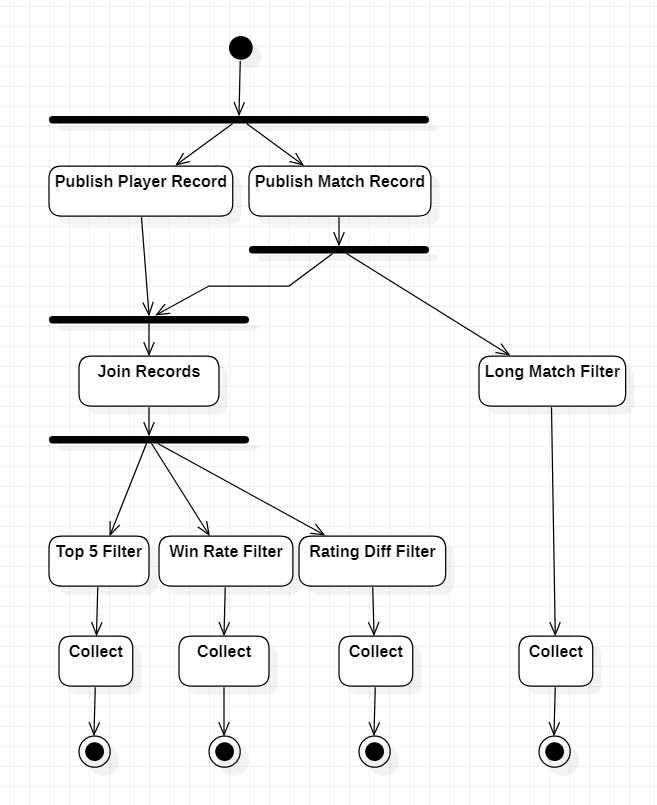
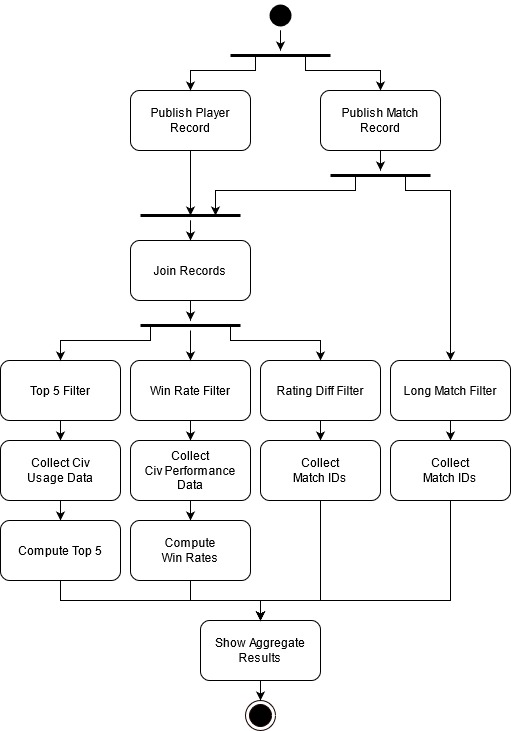
Update documentation with latest changes

diff --git a/code/common/middleware/middleware.go b/code/common/middleware/middleware.go
@@ -64,11 +64,6 @@ func (connector *Connector) Close() error {
 	return nil
 }
 
-func (connector *Connector) Queue(name string) (*amqp.Queue, bool) {
-	q, found := connector.queues[name]
-	return q, found
-}
-
 func (connector *Connector) declareFanOut(name string) error {
 	return connector.channel.ExchangeDeclare(
 		name,     // name

diff --git a/docs/docs.md b/docs/docs.md
@@ -1,5 +1,14 @@
 > **Indicaciones para la ejecución**: antes de ejecutar el sistema hay que copiar los archivos matches.csv y match_players.csv al directorio data; los archivos no fueron subidos al repositorio por su tamaño.
 
+> #### Resumen de cambios para la re-entrega
+>
+> * Se le quitaron al nodo Sink las responsabilidades de cálculo de estadísticas. Dicha responsabilidad se implementó en dos procesos Performance Data Collector y Usage Data Collector para los flujos 3 y 4, respectivamente. El proceso Sink ahora solo recibe estadísticas y las muestra en forma periódica.
+> * A nivel código se refactorizó la lógica de los consumidores en `middleware.go`  mediante un tipo `abstractConsumer` que concentra la responsabilidad de recibir mensajes desde Rabbit. Se utiliza el patrón select-case de Golang para atender tanto a nuevos mensajes como a pedidos de finalización del proceso.
+> * A nivel código se utiliza más el mecanismo defer de Golang para asegurar el cierre adecuado de las conexiones. No para todos los recursos, incluyendo archivos, no obstante, ya que defer no puede ser utilizado si el método Close puede devolver un error.
+> * Se modificó el código del cliente para reducir la repetición y para utilizar el quitChannel que antes no se usaba.
+> * Se eliminó el archivo `process.go` que no era utilizado. Se eliminó también el método `Queue` del tipo `Connector` que no era utilizado y exponía detalles internos sobre la implementación del middleware.
+> * Se modificó la documentación para que sea acorde al nuevo sistema y para reflejar los cambios solicitados.
+
 
 
 # TP2: Middleware y Coordinación de Procesos
@@ -88,17 +97,106 @@ Existen dos fuentes, una de registros de partidas, y otra de registros de jugado
 
 
 
+## Vista de procesos
+
+Las actividades a realizar son esencialmente las que se describen en el diagrama de la figura P.1.
+
+![activity](activity.png)
+
+<center>Figura P.1: Diagrama de actividades que describe las tareas que realiza esencialmente el sistema.</center>
+
+Existe por un lado un proceso que publica registros de partidas, y otro que publica registros de jugadores. Ambos pueden operar en forma independiente y en paralelo. Para aquellos flujos de procesamiento que dependan únicamente de uno de los dos tipos de registros, el procesamiento y la recolección de resultados puede comenzar en forma inmediata, como es el caso para el flujo que identifica partidas largas. Para los demás flujos es necesario ejecutar un proceso de join que, una vez realizado, puede ser seguido de una nueva paralelización. Los conjuntos de datos resultado de cada rama de procesamiento son independientes unos de otros, con lo cual es posible almacenarlos por separado y eventualmente mostrarlos por separado cuando sea solicitado. En el sistema demostrativo, no obstante, existe un paso de agregación que combina los resultados y los muestra todos juntos. En cualquier caso, ya que estos conjuntos de datos son pequeños (e.g. victorias y derrotas por civilización), sería también posible calcular las estadísticas rápidamente a demanda.
+
+
+
+## Vista física
+
+En la figura F.1 se muestra un diagrama de robustez que describe las características del sistema a implementar.
+
+![robustness](robustness.png)
+
+<center>Figura F.1: Diagrama de robustez del sistema a implementar.</center>
+
+
+
+El sistema implementa un procesamiento online y cuenta con los siguientes elementos:
+
+**Match Data Input Server** y **Player Data Input Server**: Los servidores a los que se conecta el cliente y en paralelo provee los datos de las partidas y de los jugadores. Los servidores construyen registros de partidas y jugadores, respectivamente, en base a los datos que reciben, y los publican a través de un exchange correspondiente.
+
+**Match Record FanOut**: Un exchange tipo FanOut que recibe registros de partidas y los hace disponibles a todos sus suscriptores. 
+
+**Player Record FanOut**: Un exchange tipo FanOut que recibe registros de jugadores y los hace disponibles a todos sus suscriptores.
+
+**Long Match LB**: Un balanceador de carga que recibe registros de partidas y los coloca en una cola de la que leen workers que identifican partidas largas acorde al flujo 1. En la implementación se utilizó simplemente una cola compartida por todos los workers.
+
+**Long Match Filter**: El elemento que implementa el filtro del flujo 1. Recibido un registro de partida, el proceso determina si el rating promedio es mayor a 2000, si se jugó en koreacentral, southeastasia o en eastus, y si la partida excedió las dos horas de juego. En tal caso, emite el ID de la partida por una cola de salida.
+
+**Online Join**: Un join online. El proceso almacena los registros que recibe en un cache hasta que cuenta con todos los elementos necesarios para construir un registro completo. Cuando el join construye un registro, lo publica a través de un exchange. Luego de construir un registro, sus componentes son eliminados del cache. En la implementación demostrativa se utilizó un único Join. En una implementación que requiera más capacidad de escalamiento se puede tener múltiples procesos Join, cada uno encargado de un subconjunto de partidas e.g. aquellas cuyo token comienza con `a`, aquellas cuyo token comienza con `b`, etc., o fragmentadas en base a cualquier otro esquema que se considere adecuado.
+
+**Record FanOut**: Un exchange de tipo FanOut de registros completos, que contienen información sobre partidas y sus jugadores.
+
+**Top 5 LB**: Un balanceador de carga que recibe registros post-join y los coloca en una cola de la que leen workers que implementan el flujo 4. En la implementación se utilizó simplemente una cola compartida por todos los workers.
+
+**Top 5 Filter**: El elemento que identifica partidas acordes a los requisitos del flujo 4. Este proceso toma un registro completo y determina si se trata de una partida por equipos, si el mapa es islands, y para aquellos jugadores con rating mayor a 2000, toma nota de la civilizacion utilizada. Cuando el proceso toma nota de una civilización, emite por una cola un registro que indica que un jugador pro usó la civilización en cuestión en islands. Esto permite a un proceso downstream ir recolectando datos online, manteniendo registro de la cantidad de veces que cada civilización fue usada en el mapa.
+
+**Usage Data Collector**: Recolecta los resultados emitidos por el proceso Top 5 Filter y los almacena para calcular el Top 5 de las civilizaciones más usadas para el flujo 4. En otras palabras, se encarga de mantener la cuenta de la cantidad de usos por civilización en las partidas acordes a los requisitos de dicho flujo, y de determinar cuales son las 5 más usadas. Dicho resultado es emitido por una cola. De ser necesario escalar en esta instancia, se puede implementar alternativamente una agregación por etapas, con múltiples nodos manteniendo cuentas independientes y periódicamente emitiendo sus cuentas parciales para que un nodo siguiente realice la agregación a un ritmo más lento. En el sistema demostrativo, no obstante, se implementó una agregación en una única etapa.
+
+**Win Rate LB**: Un balanceador de carga que recibe registros post-join y los coloca en una cola de la que leen workers que implementan el flujo 3. En la implementación se utilizó simplemente una cola compartida por todos los workers.
+
+**Win Rate Filter**: El elemento que identifica partidas acordes a los requisitods del flujo 3. Este proceso toma un registro completo y determina si es una partida 1v1, si es en el mapa arena, y si las civilizaciones son distintas. En tal caso, determina qué civilización ganó y emite un registro a través de una cola indicando que la civilización ganadora ganó en arena y la civilización perdedora perdió. Esto le permite a un proceso downstream ir recolectando datos online, manteniendo registro de la cantidad de victorias y derrotas para cada civilización en arena y calculando la correspondiente tasa de victoria.
+
+**Performance Data Collector**: Recolecta los resultados sobre victorias y derrotas de cada civilización, emitidos por el Win Rate Filter. En otras palabras, mantiene contadores de victorias y derrotas para cada civilización y en base a ellos calcula y emite las tasas de victoria para cada una. De ser necesario escalar en esta instancia, se puede reemplazar por una agregación por etapas, con múltiples nodos manteniendo cuentas parciales y emitiéndolas periódicamente para que un nodo posterior pueda agregarlas y calcular las estadísticas a un ritmo más lento.
+
+**Rating Diff LB**: Un balanceador de carga que recibe registros post-join y los coloca una cola de la que leen workers que implementan el flujo 2. En la implementación se utilizó simplemente una cola compartida por todos los workers.
+
+**Rating Diff Filter**: El elemento que implementa el flujo 2. Se trata de un filtro que, recibido un registro post-join, determina si se trata de una partida 1v1 en la que el ganador tiene rating mayor a 1000 y al menos 30% menor que el del contrincante. En tal caso, emite una notificación por una cola de salida indicando el ID de la partida.
+
+**Sink**: El proceso que recolecta los resultados para cada flujo y los almacena en un repositorio para futuras consultas. El proceso simplemente recolecta y muestra los datos que recibe. En el sistema demostrativo, dicha muestra se hace en forma periódica por salida estándar, aunque puede implementarse cualquier otra variante.
+
+
+
+#### Despliegue
+
+Los componentes arriba mencionados fueron implementados tal de ser independientes entre ellos; la comunicación se lleva a cabo mediante una capa de middleware, en el software demostrativo una instancia de RabbitMQ al que los programas acceden a través de una biblioteca que encapsula los detalles concretos (ver vista de desarrollo). Este desacople permite que cada proceso sea ejecutado en una computadora distinta. En la figura F.2 se muestra un despliegue general.
+
+![deployment](deployment.png)
+
+<center>Figura F.2: Despliegue con un servidor centralizado de RabbitMQ.</center>
+
+Cada nodo cuenta con el paquete de middleware y con el paquete que le corresponde para realizar sus tareas. La correspondencia entre nodos de la figura F.2 y procesos de la figura F.1 es la siguiente:
+
+* **Top 5 Filter Server**: Top 5 Filter.
+* **Civilization Performance Filter Server**: Win Rate Filter.
+* **Long Match Filter Server**: Long Match Filter.
+* **Large Rating Difference Filter Server**: Rating Diff Filter.
+* **Usage Data Collector Server**: Usage Data Collector.
+* **Performance Data Collector Server**: Performance Data Collector.
+* **Join Server**: Online Join.
+* **Sink Server**: Sink.
+
+Si RabbitMQ resultara ser un cuello de botella, también es posible adoptar un esquema diferente en el que se utilizan múltiples instancias, con cada una responsable de un subconjunto de colas o exchanges.
+
+
+
+#### Inicio del sistema
+
+En el sistema demostrativo todos los nodos salvo el cliente intentarán conectarse al servidor de Rabbit al inicio de la ejecución. Si la conexión falla, intentarán nuevamente tras algunos segundos. El cliente, por otro lado, en el sistema demostrativo esperará 30 segundos antes de conectarse al servidor de Rabbit y comenzar a enviar datos.
+
+En un esquema productivo, se esperaría que el sistema se encuentre totalmente funcional antes de aceptar conexiones de clientes. En tal caso, y para hacer al sistema más robusto, podría implementarse algún mecanismo de notificaciones o health checks para asegurar que todos los nodos están activos y listos antes de comenzar a aceptar datos.
+
+
+
 ## Vista de desarrollo
 
 
 
 #### Estructura del software
 
-Para maximizar la capacidad de procesamiento en paralelo se adoptó un esquema distribuido donde las tareas de procesamiento de datos se dividen entre varios nodos independientes. Para simplificar la comunicación y permitirle a los nodos ser lo más simples e independientes posible se desarrolló una capa de middleware que permite un uso como el que se esquematiza en la figura L.2.
+Para maximizar la capacidad de procesamiento en paralelo se adoptó un esquema distribuido donde las tareas de procesamiento de datos se dividen entre varios nodos independientes. Para simplificar la comunicación y permitirle a los nodos ser lo más simples e independientes posible se desarrolló una capa de middleware orientado a mensajes que permite un uso como el que se esquematiza en la figura L.1.
 
 ![middleware-package](package.png)
 
-<center>Figura L.2: Middleware.</center>
+<center>Figura L.1: Middleware.</center>
 
 El middleware consiste principalmente en objetos de tipo Record, que encapsulan las unidades de datos que el sistema permite intercambiar, Publishers, que ofrecen la capacidad de publicar objetos de tipo Record, y Consumers, consumidores que permiten consumir datos de distintas fuentes expuestas por el middleware en forma genérica. Existen también clases comunes pero sirven más bien de infraestructura para implementar  los publishers y los consumers.
 
@@ -132,6 +230,10 @@ func main() {
 		filter.RunCivilizationVictoryDataFilter()
 	case "join":
 		join.Run()
+	case "victorydatacollector":
+		collector.RunCivilizationVictoryDataCollector()
+	case "usagedatacollector":
+		collector.RunCivilizationUsageDataCollector()
 	case "sink":
 		sink.Run()
 	default:
@@ -140,101 +242,21 @@ func main() {
 }
 ```
 
-Cada módulo corresponde a un proceso tal como se describe en la vista de procesos. Concretamente, la correspondencia es la siguiente:
+Cada módulo corresponde a un proceso tal como se describe en el diagrama de robustez. Concretamente, la correspondencia es la siguiente:
 
 * `client`: Es el cliente que ingresa datos al sistema.
-* `lmfilter`: Es el filtro encargado de identificar partidas largas (Long Match Filter).
-* `lrdfilter`: Es el filtro encargado de identificar partidas en las que el ganador tiene un rating al menos 30% menor que el perdedor (Large Rating Difference Filter, o Rating Diff Filter en la vista de procesos).
-* `top5filter`: Es el filtro encargado de identificar partidas y publicar resultados sobre el uso de civilizaciones por jugadores pro en el mapa islands, para calcular eventualmente el top 5.
-* `civperformancefilter`: Es el filtro encargado de identificar partidas y publicar resultados sobre victorias y derrotas de civilizaciones en el mapa arena para determinar eventualmente el rendimiento de cada una (Win Rate Filter en la vista de procesos).
+* `lmfilter` (Long Match Filter en el diagrama de robustez): Es el filtro encargado de identificar partidas largas.
+* `lrdfilter` (Rating Diff Filter en el diagrama de robustez): Es el filtro encargado de identificar partidas en las que el ganador tiene un rating al menos 30% menor que el perdedor.
+* `top5filter` (Top 5 Filter en el diagrama de robustez): Es el filtro encargado de identificar partidas y publicar resultados sobre el uso de civilizaciones por jugadores pro en el mapa islands, para calcular eventualmente el top 5 de civilizaciones más usadas.
+* `civperformancefilter` (Win Rate Filter en el diagrama de robustez): Es el filtro encargado de identificar partidas y publicar resultados sobre victorias y derrotas de civilizaciones en el mapa arena para determinar eventualmente el rendimiento de cada una (Win Rate Filter en la vista de procesos).
+* `victorydatacollector` (Performance Data Collector en el diagrama de robustez): Es el proceso encargado de recolectar datos sobre las victorias y derrotas de cada civilización y publicar estadísticas sobre la tasa de victoria de cada civilización para el flujo 3.
+* `usagedatacollector` (Usage Data Collector en el diagrama de robustez): Es el proceso encargado de recolectar datos sobre el uso de cada civilización y publicar el top 5 de las civilizaciones más usadas para el flujo 4.
 * `join`: Es el proceso encargado de realizar el join de los datos.
 * `sink`: Es el proceso encargado de recibir identificadores de partidas y resultados provenientes de los filtros y realizar agregaciones o calcular y presentar estadísticas.
 
 En principio, cada módulo está pensado para ser un agente o proceso independiente que depende de la capa de middleware, compartida por todos los componentes, para realizar sus tareas de comunicación. En una implementación más refinada sería adecuado separar en proyectos independientes, o al menos separar el cliente del código del sistema. Todos los módulos dependen del middleware, y no existen dependencias entre módulos, con lo cual no existe nada que impida separar si fuera necesario hacerlo.
 
 El cliente implementado es uno también demostrativo, que lee simplemente los archivos de partidas y de jugadores, en dos hilos distintos, y utiliza la capa de middleware para publicar los registros. 
-
-
-
-## Vista de procesos
-
-En la figura P.1 se muestra un diagrama de robustez que describe las características del sistema a implementar.
-
-![robustness](robustness.png)
-
-<center>Figura P.1: Diagrama de robustez del sistema a implementar.</center>
-
-
-
-El sistema implementa un procesamiento online y cuenta con los siguientes elementos:
-
-**Match Data Input Server** y **Player Data Input Server**: Los servidores a los que se conecta el cliente y en paralelo provee los datos de las partidas y de los jugadores. Los servidores construyen registros de partidas y jugadores, respectivamente, en base a los datos que reciben, y los publican a través de un exchange correspondiente.
-
-**Match Record FanOut**: Un exchange tipo FanOut que recibe registros de partidas y los hace disponibles a todos sus suscriptores. 
-
-**Player Record FanOut**: Un exchange tipo FanOut que recibe registros de jugadores y los hace disponibles a todos sus suscriptores.
-
-**Long Match LB**: Un balanceador de carga que recibe registros de partidas y los coloca en una cola de la que leen workers que identifican partidas largas acorde al flujo 1. En la implementación se utilizó simplemente una cola compartida por todos los workers.
-
-**Long Match Filter**: El elemento que implementa el filtro del flujo 1. Recibido un registro de partida, el proceso determina si el rating promedio es mayor a 2000, si se jugó en koreacentral, southeastasia o en eastus, y si la partida excedió las dos horas de juego. En tal caso, emite el ID de la partida por una cola de salida.
-
-**Online Join**: Un join online. El proceso almacena los registros que recibe en un cache hasta que cuenta con todos los elementos necesarios para construir un registro completo. Cuando el join construye un registro, lo publica a través de un exchange. Luego de construir un registro, sus componentes son eliminados del cache. En la implementación demostrativa se utilizó un único Join. En una implementación que requiera más capacidad de escalamiento se puede tener múltiples procesos Join, cada uno encargado de un subconjunto de partidas e.g. aquellas cuyo token comienza con `a`, aquellas cuyo token comienza con `b`, etc., o fragmentadas en base a cualquier otro esquema que se considere adecuado.
-
-**Record FanOut**: Un exchange de tipo FanOut de registros completos, que contienen información sobre partidas y sus jugadores.
-
-**Top 5 LB**: Un balanceador de carga que recibe registros post-join y los coloca en una cola de la que leen workers que implementan el flujo 4. En la implementación se utilizó simplemente una cola compartida por todos los workers.
-
-**Top 5 Filter**: El elemento que implementa el flujo 4. Este proceso toma un registro completo y determina si se trata de una partida por equipos, si el mapa es islands, y para aquellos jugadores con rating mayor a 2000, toma nota de la civilizacion utilizada. Cuando el proceso toma nota de una civilización, emite por una cola un registro que indica que un jugador pro usó la civilización en cuestión en islands. Esto permite a un proceso downstream ir recolectando estadísticas online, manteniendo registro de la cantidad de veces que cada civilización fue usada en islands.
-
-**Win Rate LB**: Un balanceador de carga que recibe registros post-join y los coloca en una cola de la que leen workers que implementan el flujo 3. En la implementación se utilizó simplemente una cola compartida por todos los workers.
-
-**Win Rate Filter**: El elemento que implementa el flujo 3. Este proceso toma un registro completo y determina si es una partida 1v1, si es en el mapa arena, y si las civilizaciones son distintas. En tal caso, determina qué civilización ganó y emite un registro a través de una cola indicando que la civilización ganadora ganó en arena y la civilización perdedora perdió. Esto le permite a un proceso downstream ir recolectando estadísticas online, manteniendo registro de la cantidad de victorias y derrotas para cada civilización en arena y calculando el correspondiente porcentaje.
-
-**Rating Diff LB**: Un balanceador de carga que recibe registros post-join y los coloca una cola de la que leen workers que implementan el flujo 2. En la implementación se utilizó simplemente una cola compartida por todos los workers.
-
-**Rating Diff Filter**: El elemento que implementa el flujo 2. Se trata de un filtro que, recibido un registro post-join, determina si se trata de una partida 1v1 en la que el ganador tiene rating mayor a 1000 y al menos 30% menor que el del contrincante. En tal caso, emite una notificación por una cola de salida indicando el ID de la partida.
-
-**Sink**: El proceso que recolecta los resultados para cada flujo y los almacena en un repositorio para futuras consultas. Debido a las características de la información que se transmite por las colas de entrada, pueden existir múltiples procesos Sink idénticos que guardan un subconjunto de los datos recolectados post-proceso (e.g. subconjuntos de partidas largas y de partidas donde el ganador tenga rating al menos 30% menor que el del perdedor, contadores para las victorias y derrotas por civilización, y contadores para la cantidad de usos por civilización). Luego, estas estadísticas pueden ser agregadas periódicamente a un único almacén, o agregadas en forma dinámica cuando se realiza una consulta mediante algún sistema a definir. En la implementación demostrativa existe un único Sink, no obstante, que emite un reporte de estadísticas en forma periódica.
-
-
-
-Las actividades a realizar son esencialmente las que se describen en el diagrama de la figura P.2.
-
-![activity](activity.png)
-
-<center>Figura P.2: Diagrama de actividades que describe las tareas que realiza esencialmente el sistema.</center>
-
-Existe por un lado un proceso que publica registros de partidas, y otro que publica registros de jugadores. Ambos pueden operar en forma independiente y en paralelo. Para aquellos flujos de procesamiento que dependan únicamente de uno de los dos tipos de registros, el procesamiento y la recolección de resultados puede comenzar en forma inmediata, como es el caso para el flujo que identifica partidas largas. Para los demás flujos es necesario ejecutar un proceso de join que, una vez realizado, puede ser seguido de una nueva paralelización. Los conjuntos de datos resultado de cada rama de procesamiento son independientes unos de otros, con lo cual es posible almacenarlos por separado y eventualmente mostrarlos por separado cuando sea solicitado. Ya que estos conjuntos de datos son pequeños, adicionalmente (e.g. victorias y derrotas por civilización), es posible calcular las estadísticas rápidamente a demanda. Ya que no se requiere un procesamiento con agregación por etapas, es posible implementar un algoritmo online, asumiendo consistencia eventual.
-
-
-
-## Vista física
-
-Acorde a lo que se mencionó sobre los módulos o procesos que hacen al sistema en la vista de desarrollo, estos componentes son independientes entre ellos y dependen todos de la capa de middleware. En otras palabras, nada impide que cada uno sea ejecutado en una computadora distinta. En la figura F.1, por ejemplo, se esquematiza un despliegue posible.
-
-![deployment](deployment.png)
-
-<center>Figura F.1: Posible despliegue con un Rabbit centralizado.</center>
-
-Cada nodo cuenta con el paquete de middleware y con el paquete que le corresponde para realizar sus tareas. La correspondencia, acorde a los nombres de programa indicados en la vista de desarrollo para el mono-binario demostrativo, es la siguiente:
-
-* Client: `client`
-* Join: `join`
-* Top 5 most used filter: `top5filter`
-* Civilization performance filter: `civperformancefilter`
-* Long match filter: `lmfilter`
-* Large rating difference filter: `lrdfilter`
-* Sink: `sink`
-
-En la figura, uno de los filtros cuenta con dos instancias, a modo de ejemplo. Las instancias saben comunicarse a la cola adecuada y el sistema distribuye la carga en modalidad work-queue, con lo cual se puede contar con una cantidad arbitraria de instancias. Lo mismo aplica a todos los filtros. El sistema demostrativo no soporta múltiples Sinks ni Joins, no obstante, si bien en la vista de procesos se sugiere cómo podrían implementarse mecanismos de escalamiento en estos procesos.
-
-Si RabbitMQ resultara ser un cuello de botella, también es posible adoptar un esquema diferente en el que se utilizan múltiples instancias, con cada una responsable de un subconjunto de colas o exchanges.
-
-#### Despliegue
-
-En el sistema demostrativo todos los nodos salvo el cliente intentarán conectarse al servidor de Rabbit al inicio de la ejecución. Si la conexión falla, intentarán nuevamente tras algunos segundos. El cliente, por otro lado, en el sistema demostrativo esperará 30 segundos antes de conectarse al servidor de Rabbit y comenzar a enviar datos.
-
-En un esquema productivo, se esperaría que el sistema se encuentre totalmente funcional antes de aceptar conexiones de clientes. En tal caso, y para hacer al sistema más robusto, podría implementarse algún mecanismo de notificaciones o health checks para asegurar que todos los nodos están activos y listos antes de aceptar datos por parte del cliente.
 
 
 
@@ -265,8 +287,9 @@ En un esquema productivo, se esperaría que el sistema se encuentre totalmente f
 6. El nodo Online Join recibe el registro del jugador y, en base al token X que obtiene del registro, obtiene nuevamente la información asociada a la partida X y determina que necesita dos jugadores para realizar el join. Buscando en la colección de jugadores asociados a la partida X determina que, junto al nuevo jugador recibido, tiene en total dos y puede efectivamente realizar el join.
 7. El nodo Online Join realiza la juntura, generando un registro de tipo JointMatchRecord que contiene información sobre la partida y sobre sus jugadores. El nodo publica el registro a través del Record FanOut. El Online Join elimina toda la información asociada a la partida X de sus cachés para mantener en memoria solo información asociada a registros que todavía no han sido juntados.
 8. El filtro Win Filter, o Civilization Performance Filter, recibe el registro y determina si la partida cumple con las condiciones para ser de su interés. Concretamente, determina si la partida es 1v1, si el mapa es arena, y si los jugadores usan civilizaciones distintas. De ser el caso, genera dos registros de tipo CivilizationInfoRecord: uno para la civilización del ganador indicando que hubo una victoria, y otro para la civilización del perdedor indicando que hubo una derrota. Ambos registros son agrupados en un batch de tipo CivilizationInfoRecordBatch y emitidos a través de una cola. Los objetos CivilizationInfoRecord son objetos genéricos que permiten transmitir información asociada a civilizaciones: cuentan con un campo que es el nombre de la civilización y un string adicional que comunica información adicional relacionada a lo que se está queriendo comunicar. En este caso, los valores que adopta el string son "Victory" y "Defeat."
-9. El nodo Sink guarda en memoria dos contadores inicializados en forma lazy asociados a cada civilización, que indican respectivamente la cantidad de victorias y la cantidad de derrotas. Cuando Sink recibe el ambos registros CivilizationInfoRecord  actualiza los contadores correspondientes a cada civilización. A la civilización ganadora le suma una victoria, y a la civilización ganadora le suma una derrota. De implementarse múltiples nodos Sink, cada uno podría almacenar contadores independientes para cada civilización y agregarlos eventualmente cuando haya que generar las estadísticas, o en forma periódica con consistencia eventual.
-10. El nodo Sink eventualmente emite estadísticas sobre la tasa de victoria para cada civilización, calculándola en base a la cantidad de victorias y derrotas que tiene registradas para cada una.
+9. El nodo Performance Data Collector guarda en memoria dos contadores inicializados en forma lazy asociados a cada civilización, que indican respectivamente la cantidad de victorias y la cantidad de derrotas. Cuando el nodo recibe los registros CivilizationInfoRecord actualiza los contadores correspondientes a cada civilización: a la civilización ganadora le suma una victoria, y a la civilización perdedora le suma una derrota. El nodo luego calcula la tasa de victoria para cada civilización de la que tiene registro, y emite el resultado por una cola. Dicho cálculo, en el sistema demostrativo, se hace cada vez que el nodo recibe un nuevo mensaje; alternativamente, sería también posible realizar el cálculo en forma periódica en un hilo separado para no hacerlo ante cada mensaje. De ser necesario escalar en esta instancia, como se mencionó en la vista física, sería posible separar este nodo en dos etapas: una primera etapa de agregación parcial con múltiples nodos, y una segunda etapa de agregación total y cálculo de estadísticas.
+
+1. El nodo Sink recibe y guarda el último resultado informado por el Performance Data Collector, y lo muestra en forma periódica. De ser necesario escalar en esta instancia, se puede tener un proceso Sink independiente para cada flujo y realizar la agregación final a demanda solo cuando sea necesario, aprovechando que cada flujo produce resultados independientes de los producidos por los demás.
 
 
 
@@ -274,14 +297,26 @@ En un esquema productivo, se esperaría que el sistema se encuentre totalmente f
 
 1. El flujo comienza en forma análoga al que se describe en la sección anterior, con el nodo Online Join emitiendo eventualmente un registro JointMatchRecord con información sobre la partida y sobre todos los jugadores asociados a ella. Supongamos que la partida cumple efectivamente con las condiciones para ser de interés al flujo 4 (top 5 de civilizaciones más usadas por pro players (rating > 2000) en partidas en equipo en el mapa *islands*).
 2. El filtro o uno de los filtros Top 5 Filter recibe el registro y determina si cumple con las condiciones para ser de interés al ya mencionado flujo. Determinando que es el caso, construye un registro de tipo CivilizationInfoRecord por cada jugador pro en la partida, indicando la civilización que usó, y los junta en un batch. El batch es enviado a través de una cola.
-3. El nodo Sink guarda contadores en memoria para cada civilización, inicializados en forma lazy, que indican la cantidad de veces que cada civilización fue usada por pro players en partidas por equipo en el mapa islands. En base a los registros tipo CivilizationInfoRecord que recibe a través de la cola asociada al mencionado flujo, aumenta en uno (para cada registro) el contador correspondiente a la civilización indicada en el registro. Como en los casos anteriores, es posible contar con múltiples nodos Sink que guarden contadores independientes que eventualmente sean agregados cuando haya que mostrar resultados o a intervalos periódicos con consistencia eventual.
-4. Eventualmente el nodo Sink genera estadísticas. En este momento determinará el top 5 de civilizaciones más usadas en base a los contadores que guarda en memoria, y mostrará los resultados obtenidos.
+3. El nodo Usage Data Collector guarda contadores en memoria para cada civilización, inicializados en forma lazy, que indican la cantidad de veces que cada civilización fue usada por pro players en partidas por equipo en el mapa islands. En base a los registros tipo CivilizationInfoRecord que recibe a través de la cola asociada al mencionado flujo, aumenta en uno (para cada registro) el contador correspondiente a la civilización indicada en el registro. Luego el nodo determina el top 5 de las civilizaciones más usadas y emite el resultado por una cola. En el sistema demostrativo esta evaluación se realiza ante cada mensaje, aunque nada impide ejecutarla en forma periódica para ahorrar en recursos de cómputo. Adicionalmente, como se mencionó en la vista física, de ser necesario escalar en esta instancia es posible separar este nodo en dos etapas: una primera etapa de agregación parcial con múltiples nodos y una segunda etapa de agregación total con determinación del top 5, análogo a lo que se sugiere para el Performance Data Collector.
+4. El nodo Sink recibe los resultados del top 5 reportados por el Usage Data Collector y guarda el último recibido, para mostrarlo periódicamente.  Si fuera necesario escalar en esta instancia, se puede tener un proceso Sink independiente para cada flujo y realizar la agregación final a demanda solo cuando sea necesario, aprovechando que cada flujo produce resultados independientes de los producidos por los demás.
 
 
 
-## Defectos conocidos
+## Posibilidades de mejora
 
-* En la vista de procesos se propone la posibilidad de implementar múltiples procesos Sink. En el sistema demostrativo se utiliza uno solo. De implementarse varios, no obstante, cada uno almacenaría solo un subconjunto de los datos (e.g. contadores para cada civilización, IDs de partidas interesantes), con lo cual sería necesario implementar un paso de agregación adicional, probablemente mediante una cola para poder desacoplar los múltiples procesos Sink en nodos distintos.
-* El proceso Join es uno solo, lo cual reduce las posibilidades de escalamiento. Esto podría resolverse teniendo múltiples instancias, cada una encargada de un subconjunto de partidas. La partición puede hacerse sin dificultad usando el token de partida.
-* Los resultados obtenidos no parecerían ser acordes a los esperados. También se observó una excepción durante una de las ejecuciones del sistema demostrativo, con lo cuál existe definitivamente algún error que requiere corrección.
+A continuación se listan varias posibilidades de mejora, mencionadas en secciones anteriores.
+
+
+
+#### Agregación y estadísticas
+
+* Los procesos encargados de recolección de datos y cálculo de estadísticas (Usage Data Collector y Performance Data Collector en el diagrama de robustez), pueden ser separados en dos etapas de ser necesario escalar: una agregación parcial y una segunda etapa de agregación final con cálculo de estadísticas.
+* El proceso Sink puede separarse en uno para cada flujo con una agregación eventual y a demanda de los datos que sea necesario mostrar.
+
+
+
+#### Organización del proyecto y entregables
+
+* Convendría adoptar una mejor y más consistente estrategia para nombrar nodos/procesos, visto que ocasionalmente se utilizaron nombres diferentes en distintas secciones y en el código para referirse a la misma unidad funcional.
+* En un despliegue productivo sería adecuado separar el mono-binario en múltiples binarios independientes.
 
